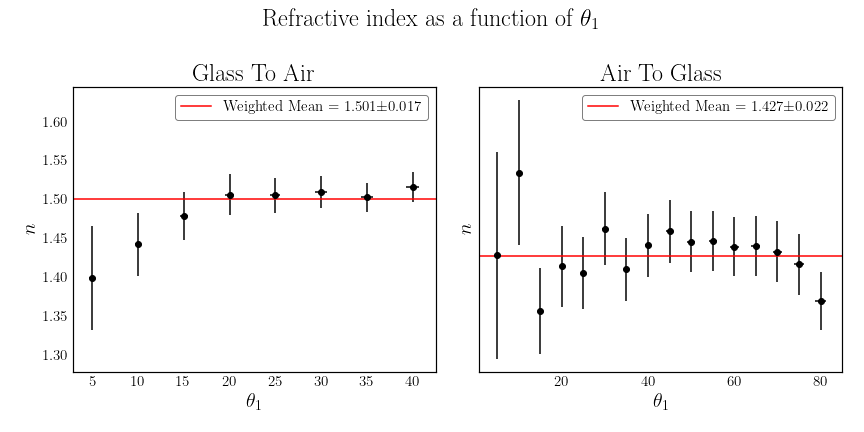
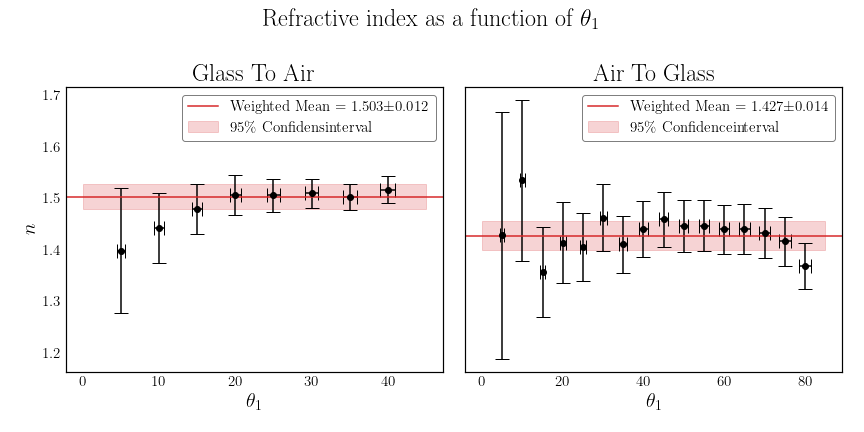
goober

diff --git a/Exercise 1/results.tex b/Exercise 1/results.tex
@@ -22,7 +22,7 @@ and plot it against $\theta_1$ we get figure \ref{fig:weighted_average}.
         \caption{Estimation of the refractive index of the semicircular prism used in the experiment}
         \label{fig:weighted_average}
     \end{figure}
-It is to be noted, that we under the experiment noticed severe stretching of the laser when it hit the detector at large angles of incidence, which ment that we were not able to measure the entire laser beam, and also that the uncertainty of our angle measurements increased with the angle of incidence.
+It is to be noted, that we under the experiment noticed severe stretching of the laser when it hit the detector at large angles of incidence, which meant that we were not able to measure the entire laser beam, and also that the uncertainty of our angle measurements increased with the angle of incidence.
 We have not taken this into consideration in the data analysis, and have instead run with an error $\sigma_\theta = 0.25$, since the scale had 0.5 degree increments. 
 If we attempt to include a primitive model of how this uncertainty increases with angle, using $\sigma_\theta = 0.25 + \frac{\theta_1}{\max(\theta_1)}$, we instead get figure \ref{fig:new_weighted_average}.
    \begin{figure}[h]
